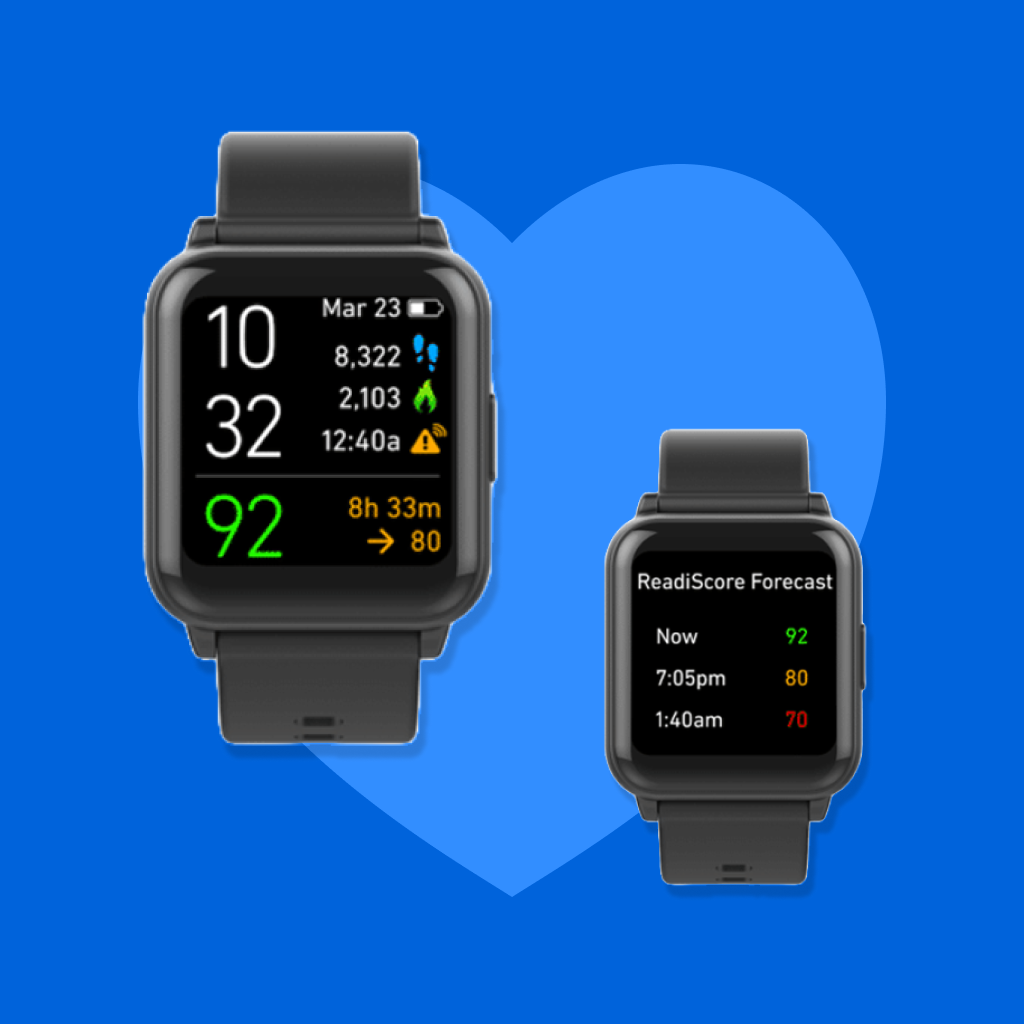
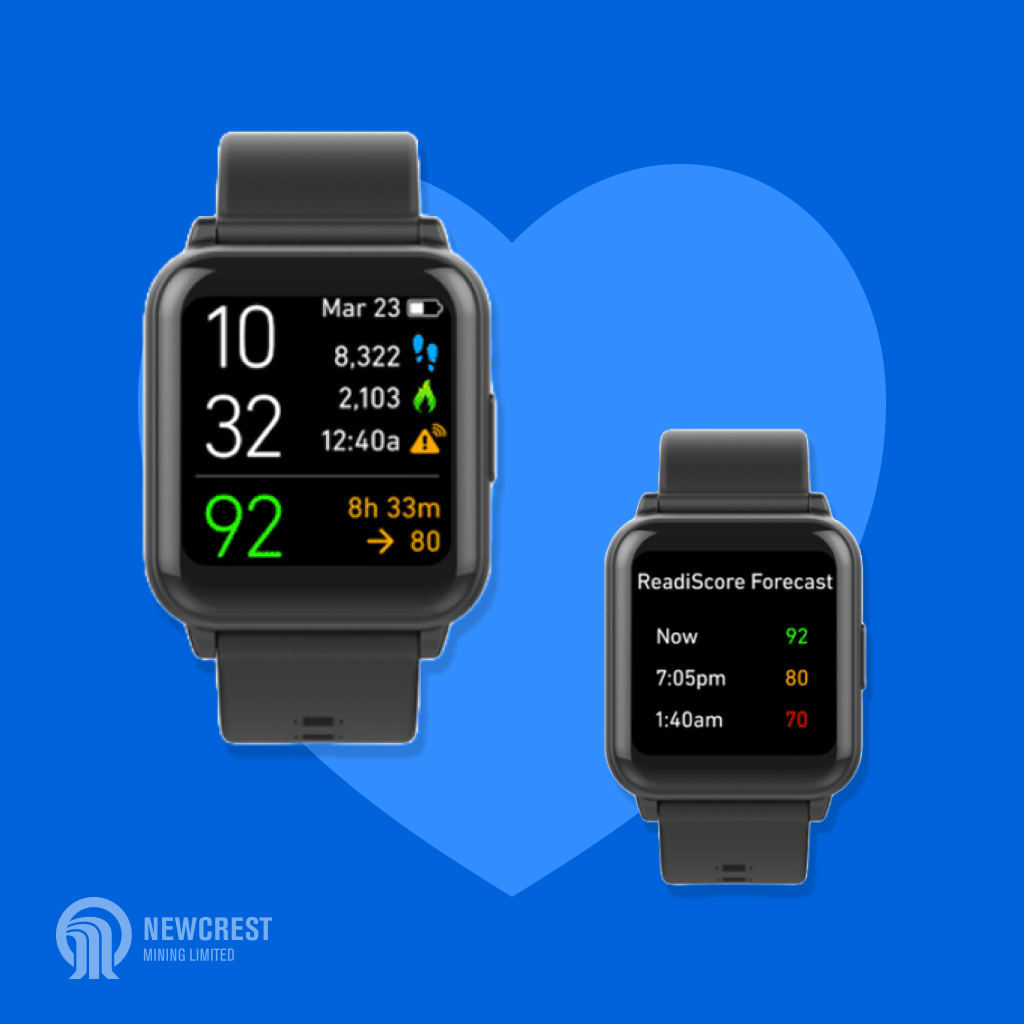
Readiwatch portfolio project

diff --git a/_work/minerfatigueprevention.md b/_work/minerfatigueprevention.md
@@ -1,0 +1,84 @@
+---
+title: "Miner Fatigue Prevention"
+name: "Miner Fatigue Prevention"
+excerpt: "ReadiWatch system—a wearable technology solution designed to monitor and prevent fatigue-related incidents among mining personnel"
+coverImage: "https://k97static.s3.ap-southeast-2.amazonaws.com/stebinco/work/readiwatch/cover.png"
+date: "2024-02-01T00:00:00.000Z"
+author:
+  name: Stebin Sebastine
+  private: false
+  tags: UX Research, Product Design
+ogImage:
+  url: "https://k97static.s3.ap-southeast-2.amazonaws.com/stebinco/work/readiwatch/cover.png"
+---
+
+> As a UX designer at Newcrest Mining, I joined the company's design thinking initiative aimed at solving operational challenges across different departments. The design team identified several problem areas to explore, with safety incidents being one of the highest priorities. We started researching with the miners and together we uncovered fatigue as a recurring root cause in incidents. Working with the lead designer and safety specialists, I helped develop the ReadiWatch system—a wearable solution that reduced fatigue incidents at mines.
+
+### Problem & Opportunity
+
+Through several interviews with the safety team, we began by analysing incident reports from the past two years to identify patterns. While reviewing these reports, we noticed fatigue appeared repeatedly as either a confirmed or suspected cause in many severe incidents. Despite existing controls like shift limits, there was no way to ensure operators in high-risk roles were getting enough sleep between shifts.
+We interviewed and conducted diary studies with equipment operators, supervisors, and safety managers to better understand the problem. Through these explorations, a clear issue emerged: the existing Driver Safety System only detected microsleeps after they occurred—when it was already too late to prevent a potential accident.
+
+![](https://k97static.s3.ap-southeast-2.amazonaws.com/stebinco/work/readiwatch/design-thinking-framework.png)
+
+### Research findings
+
+Working with the lead designer, we conducted field observations during shift changes and reviewed the existing fatigue management process. Our key findings included:
+
+- Equipment operators often weren't aware of their own fatigue levels until experiencing a microsleep
+- Supervisors had no visibility into sleep patterns before shifts began
+- The mining environment required extremely durable technology
+- Any solution would need to balance safety needs with operator privacy
+
+A compelling insight was captured during operator interviews when it was reported that microsleeps are often detected by the system only after a x`xtruck could have already veered off course.
+
+### Ideation process
+
+![](https://k97static.s3.ap-southeast-2.amazonaws.com/stebinco/work/readiwatch/process-fatigue.png)
+
+I helped faciliate in a cross-functional workshop with safety specialists, equipment operators, and supervisors to generate solutions. We started by mapping the operator journey from off-shift sleep to on-duty operation, identifying key intervention points. During the ideation phase, we came up with several concepts:
+
+- A pre-shift eye-tracking test to measure fatigue
+- A mobile app for self-reporting sleep quality
+- A wearable sleep tracker with supervisor alerts
+
+After evaluating options against feasibility, effectiveness, and operator acceptance criteria, the wearable concept emerged as the most promising solution.
+
+
+### Prototyping the solution
+
+I worked closely with the lead designer to create prototypes of both the physical wearable and the digital interfaces. Starting with sketches and paper wireframes, we developed:
+
+- Low-fidelity wireframes for the supervisor dashboard
+- User flows showing how the system would identify high-risk operators
+- Visual mockups for displaying the fatigue risk metric
+- Interactive prototypes for supervisor interventions
+
+![](https://k97static.s3.ap-southeast-2.amazonaws.com/stebinco/work/readiwatch/design-specs.png)
+
+My contribution focused on understanding the readiwatch device, solution and working on deploying the solution inside Newcrest from design point of view that would allow supervisors to quickly identify at-risk operators and take appropriate action before they began their shifts.
+
+### Final design & outcome
+
+Among competing concepts, ReadiWatch was chosen for its seamless integration into miners' routines and superior ability to predict fatigue risk before it impacted safety, rather than simply detecting incidents after they occurred.
+
+- A rugged wearable device that miners would wear continuously to track sleep
+- Sync stations positioned where operators gathered before shifts
+- A supervisor dashboard highlighting operators with insufficient sleep
+- Clear protocols for what actions to take when fatigue risk was detected
+
+My role involved designing the dashboard interface that transformed complex sleep data into a simple ReadiScore that supervisors could easily interpret and act upon. Since implementation, the system has achieved a 90% reduction in fatigue events, shifting Newcrest's approach from responding to fatigue incidents to preventing them before they happened.
+
+![](https://k97static.s3.ap-southeast-2.amazonaws.com/stebinco/work/readiwatch/miners-showcase.png)
+
+
+### Lessons learned
+
+This project taught me the value of thorough field research in understanding the true nature of a problem. By spending time with miners and observing their environment firsthand, we designed a solution that not only addressed the technical challenges but also fit naturally into their workflows. I also gained experience in:
+
+- Designing for extreme environments where durability is essential
+- Transforming complex data into simple, actionable insights
+- Creating interfaces that support critical safety decisions
+- Balancing automation with human judgment
+
+Most importantly, I learned how design thinking can address serious safety issues and potentially save lives—giving real meaning to the work we do as designers.
